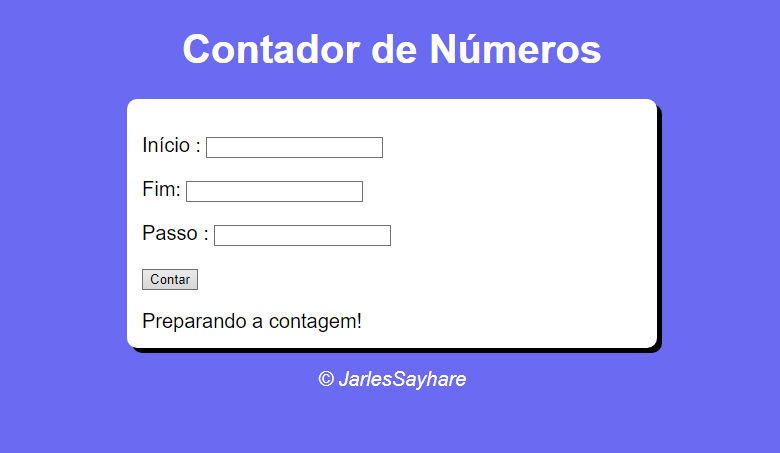
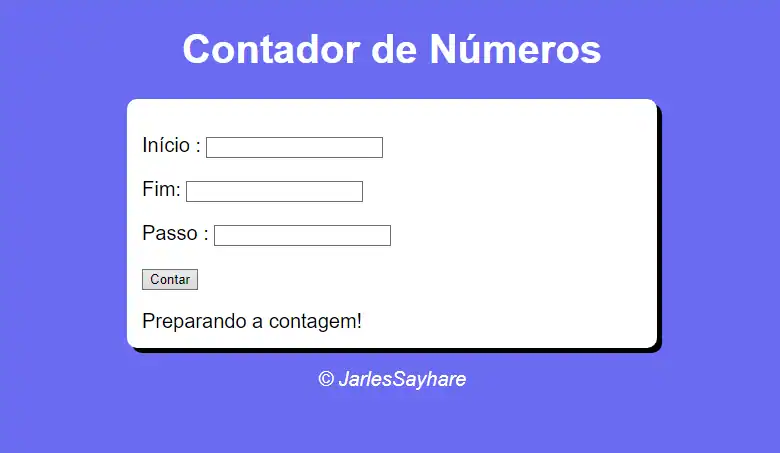
alteração dos formatos de imagem de png para webp

diff --git a/index.html b/index.html
@@ -56,7 +56,7 @@
   <nav id="nav">
     <div class="container">
       <a href="index.html" target="_self" class="img-left">
-        <img src="img/JSlogo.png" alt="logomarca do desenvolvedor desse site, jarles" />
+        <img src="img/JSlogo.webp" alt="logomarca do desenvolvedor desse site, jarles" />
       </a>
       <button id="btn-mobile">&#9776;</button>
       <div id="menu">
@@ -69,10 +69,10 @@
         </ul>
 
         <div class="social-icons">
-          <a href="https://github.com/Jarlez" target="_blank"><img alt="icone do github" src="img/github.png"
+          <a href="https://github.com/Jarlez" target="_blank"><img alt="icone do github" src="img/github.webp"
               onmouseover="this.src='img/githubinvertido.png'" onmouseout="this.src='img/github.png'" /></a>
           <a href="https://www.linkedin.com/in/jarlessayhare7/" target="_blank"><img alt="icone do linkedin"
-              src="img/linkedin.png" onmouseover="this.src='img/linkedinazul.png'"
+              src="img/linkedin.webp" onmouseover="this.src='img/linkedinazul.png'"
               onmouseout="this.src='img/linkedin.png'" /></a>
         </div>
       </div>
@@ -574,7 +574,7 @@
 
       <div class="image">
         <a href="#nav" target="_self">
-          <img href="index.html" src="img/JSlogo.png" alt="logomarca do desenvolvedor desse site, jarles" /></a>
+          <img href="index.html" src="img/JSlogo.webp" alt="logomarca do desenvolvedor desse site, jarles" /></a>
       </div>
 
       <div id="linha-vertical"></div>

diff --git a/js/botaosee.js b/js/botaosee.js
@@ -13,8 +13,8 @@ btn.addEventListener("click", () => {
     }
 });
 
-var imgAtual = "img/vermais.png";
-var imgAnterior = "img/vermenos.png";
+var imgAtual = "img/vermais.webp";
+var imgAnterior = "img/vermenos.webp";
 
 function trocar() {
     document.getElementById("troca").src = imgAtual;
